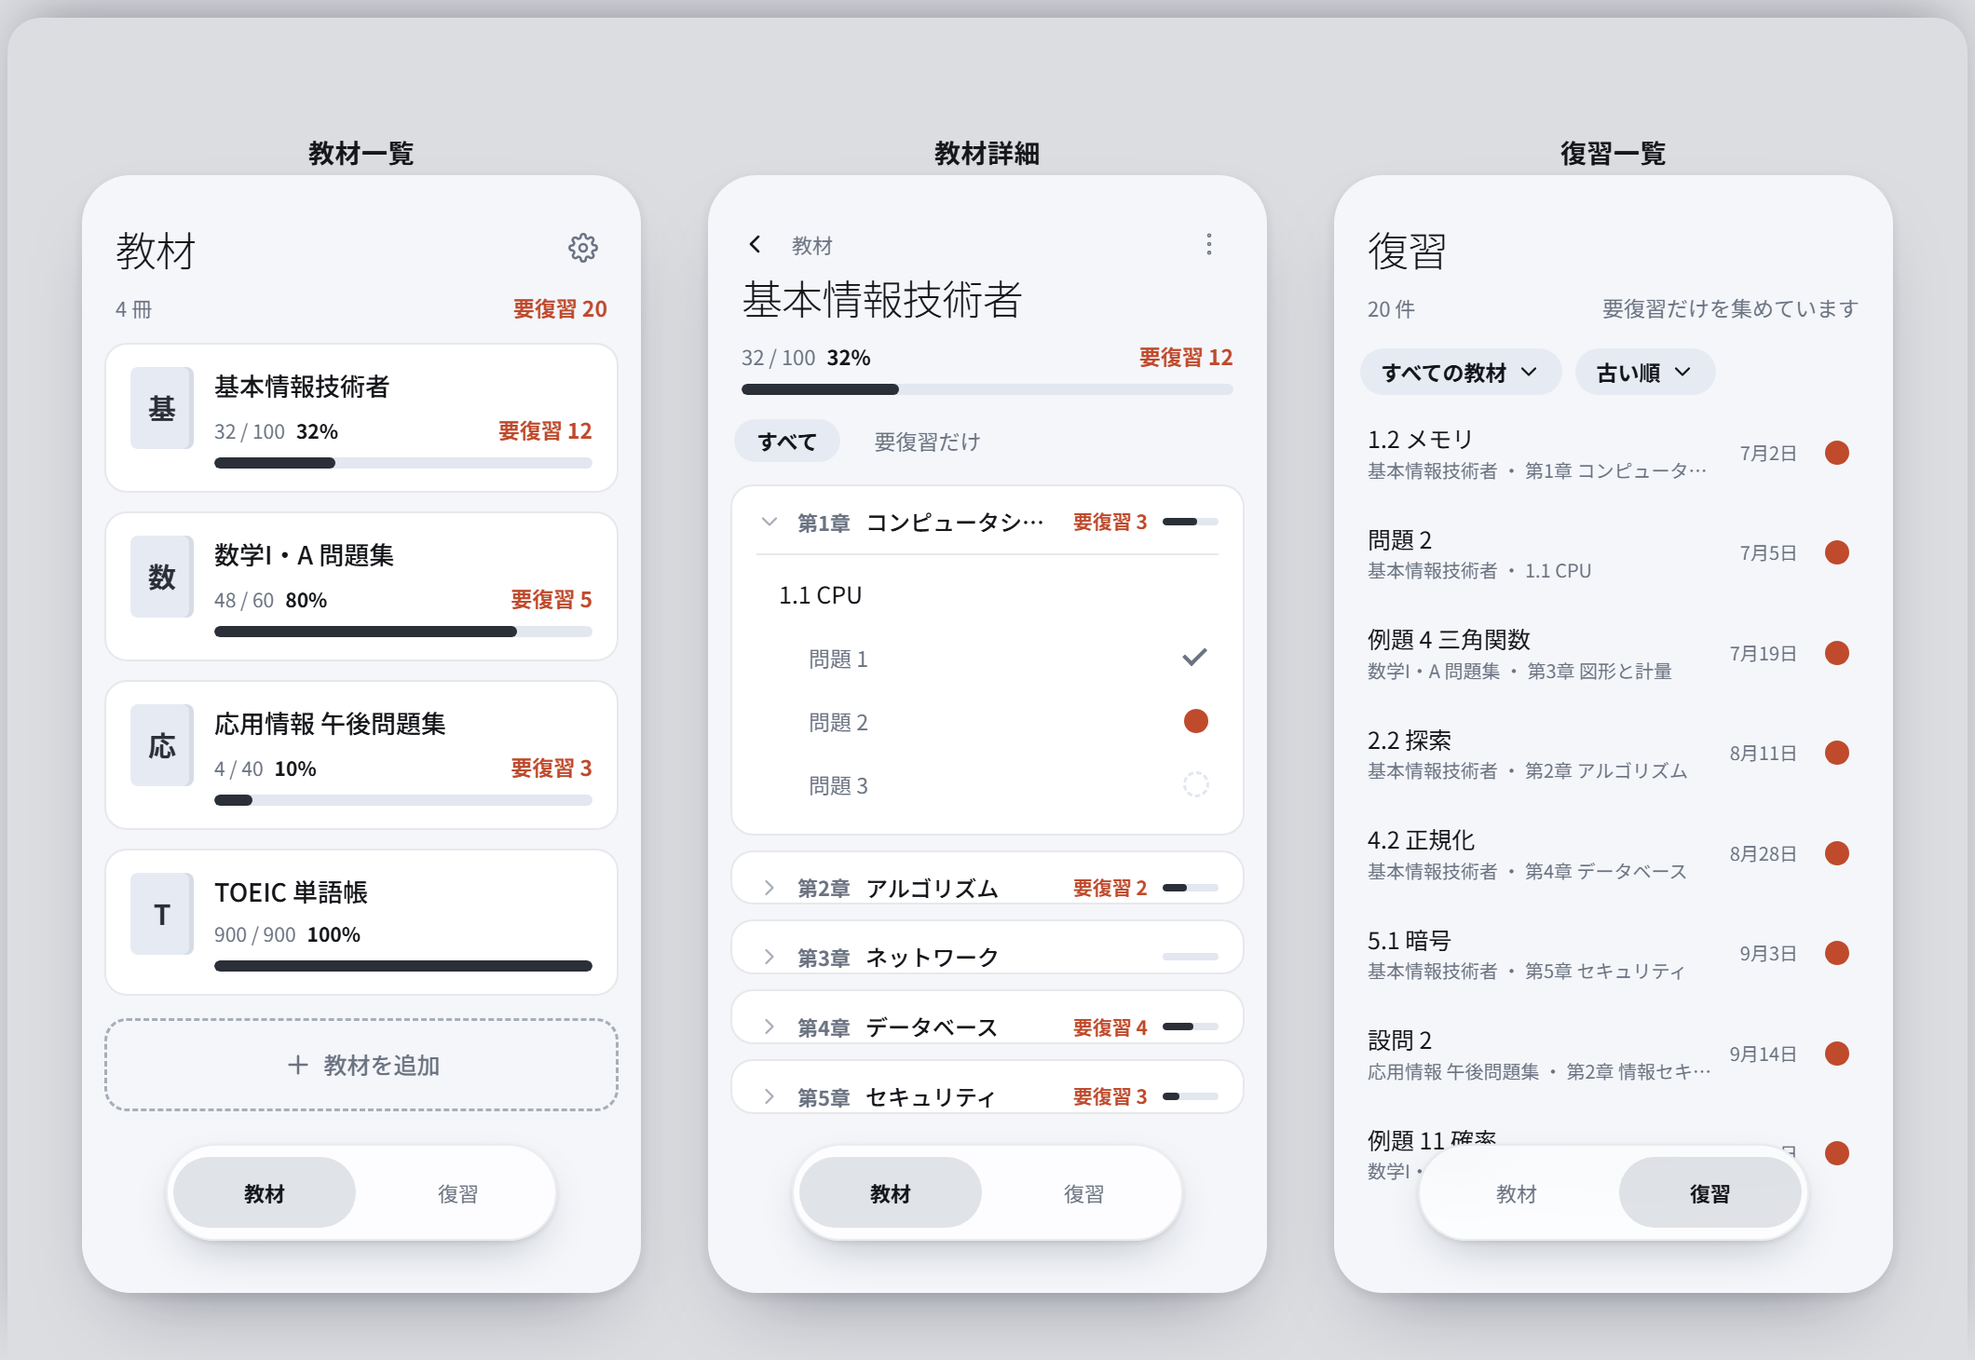
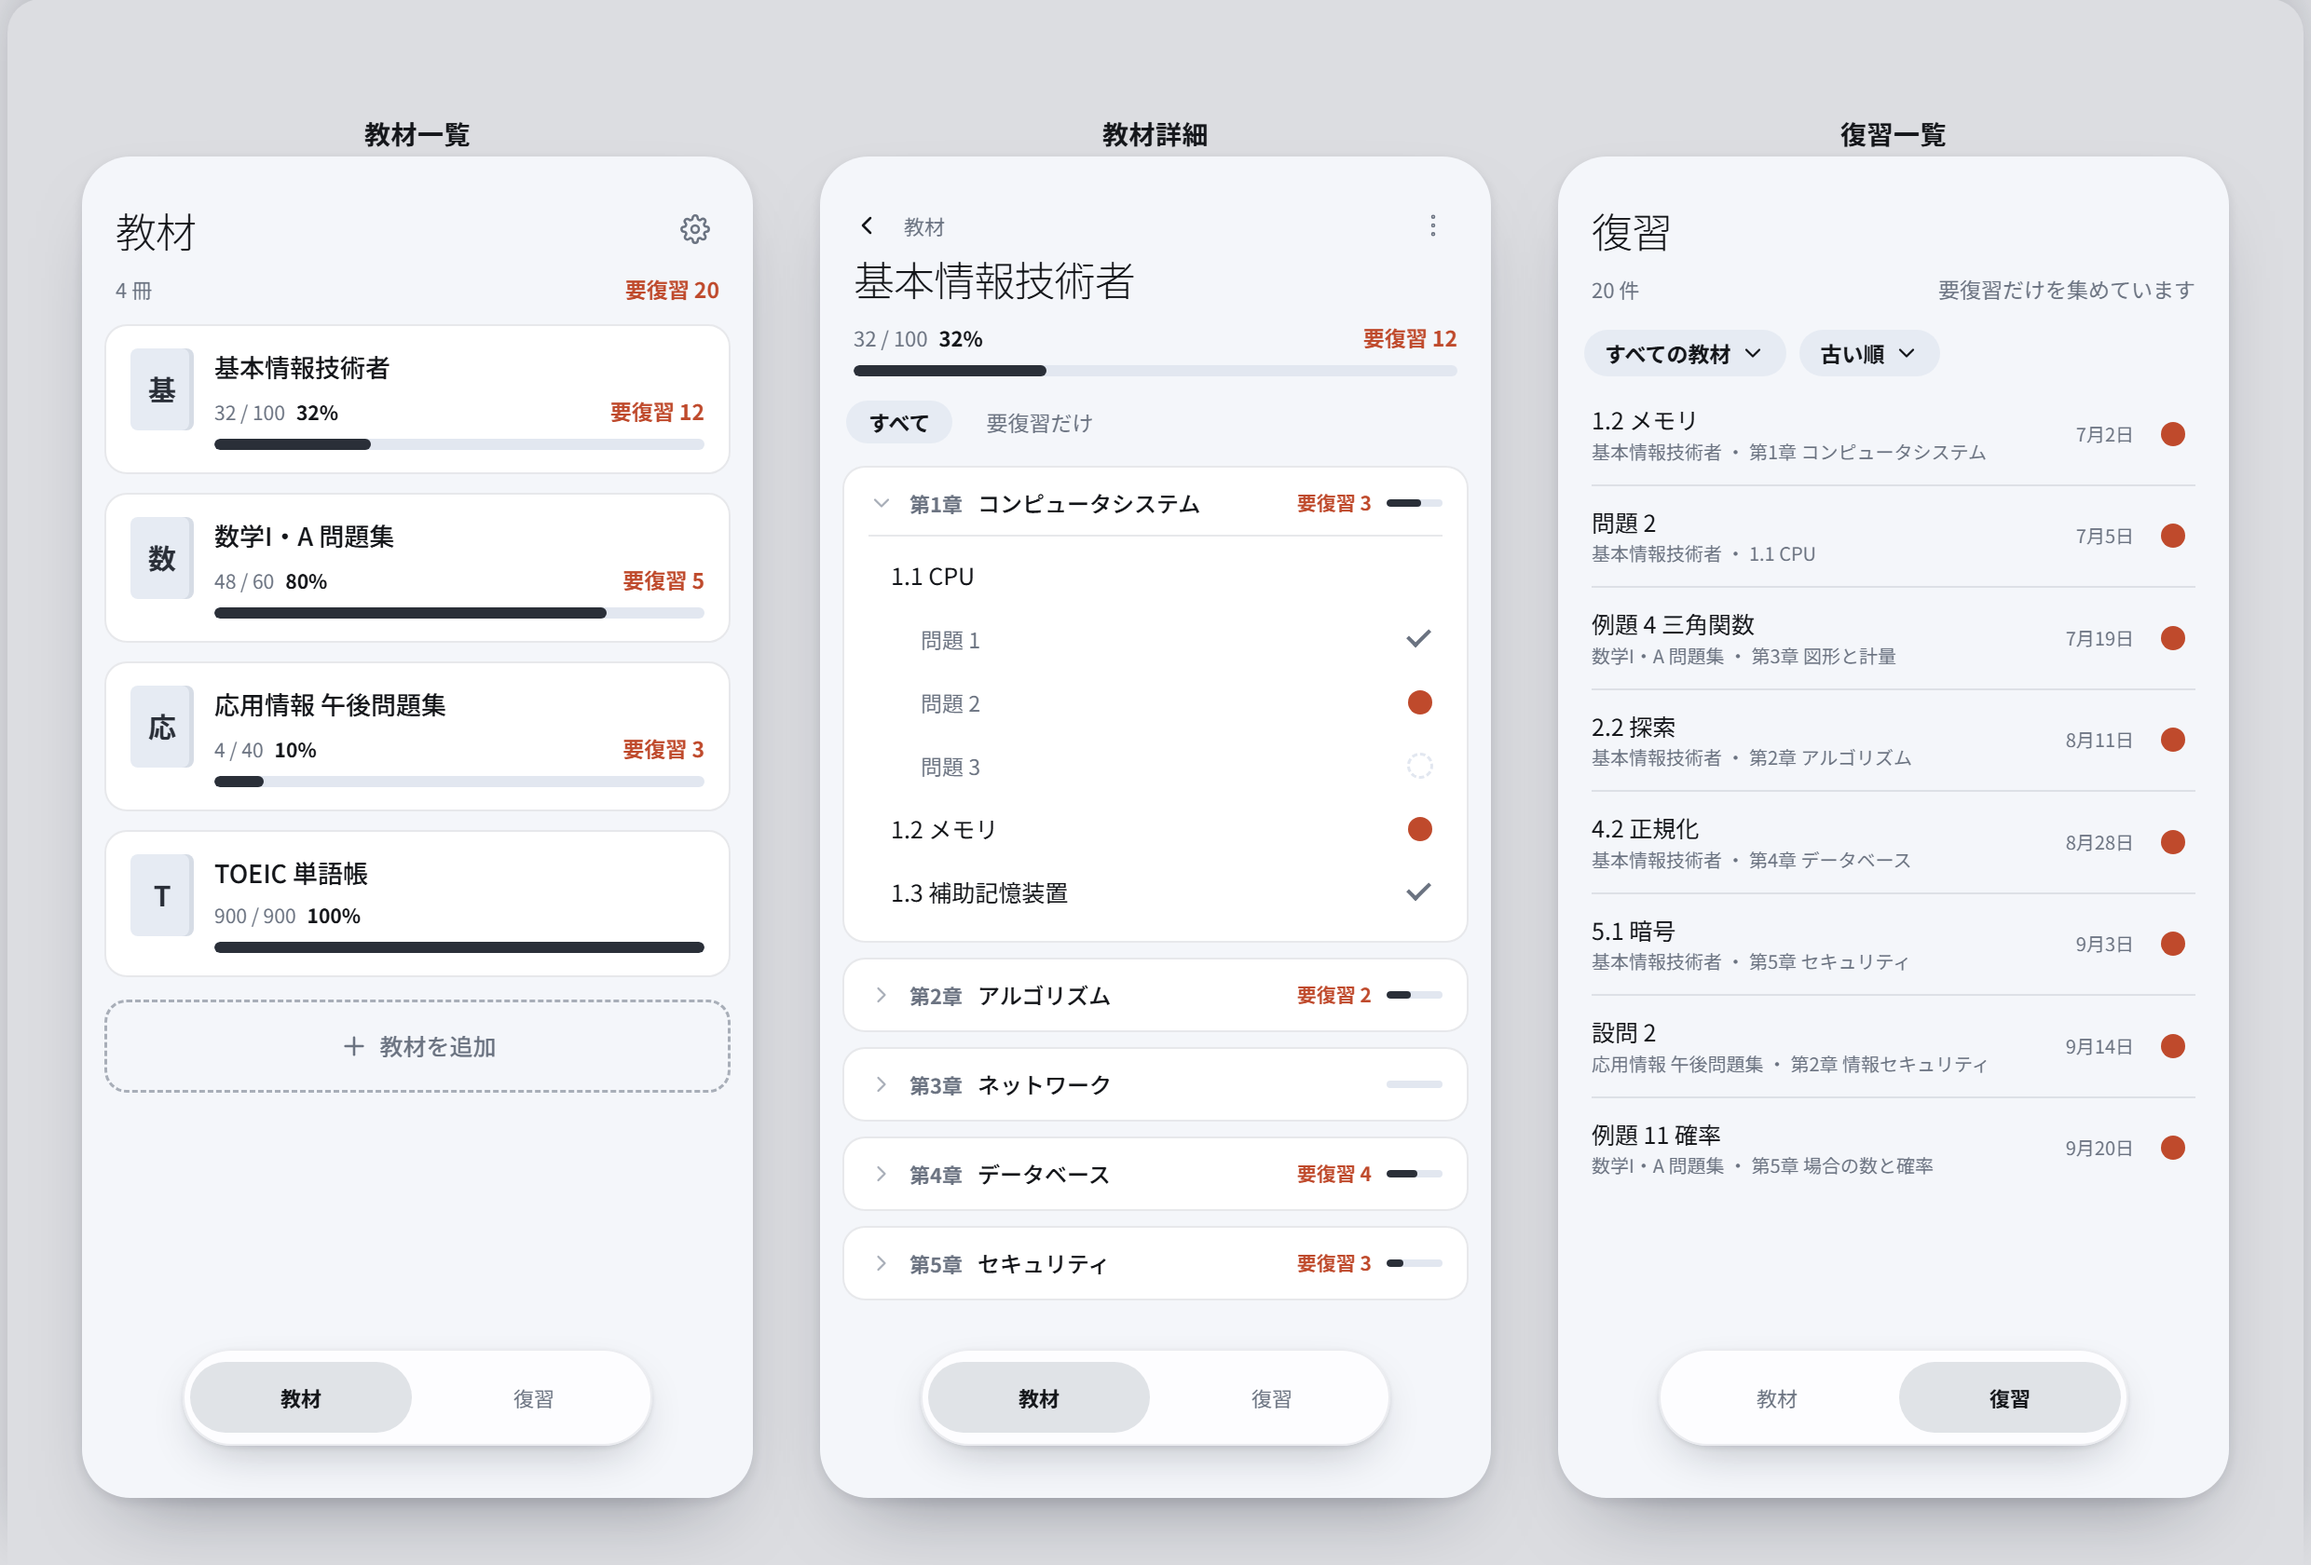
fix: モックの端末の枠を実寸にする（#30）
枠は aspect-ratio で 360 × 720dp の端末を表しているのに 300 × 600px で
描いていた。中の寸法は dp の数字をそのまま px で置いてあるので、中身だけが
1.2 倍大きく見えていた。264dp のナビが枠の 88% を占めて見えたのはこれが理由。

枠を 360 × 720px にして 1px = 1dp にし、screenshot.png を撮り直した。

diff --git a/docs/ui/index.html b/docs/ui/index.html
@@ -67,7 +67,7 @@
   .band + .sub strong { color: var(--ink); }
   section.block { margin-bottom: 56px; }
 
-  .grid { display: grid; grid-template-columns: repeat(auto-fit, minmax(300px, 1fr)); gap: 34px; align-items: start; }
+  .grid { display: grid; grid-template-columns: repeat(auto-fit, minmax(360px, 1fr)); gap: 34px; align-items: start; }
   .col > header { margin-bottom: 12px; }
   .col h4 { font-family: "Zen Kaku Gothic New", sans-serif; font-size: 17px; font-weight: 700; margin: 0 0 3px; }
   .col h4 .idx { color: var(--accent); margin-right: 5px; }
@@ -81,7 +81,8 @@
     --hair: rgba(20, 32, 60, .10); --gauge: #E2E7F0;
     --fill: #2A2F38; --acc: #BF4A2C; --chipbg: #E6EBF3;
 
-    width: 100%; max-width: 300px; aspect-ratio: 360 / 720;
+    /* 1px = 1dp。360 x 720dp の端末を実寸で描く（縮めると中身だけ大きく見える） */
+    width: 100%; max-width: 360px; aspect-ratio: 360 / 720;
     border-radius: 26px; overflow: hidden; position: relative; margin: 0 auto 14px;
     box-shadow: 0 20px 44px -24px rgba(16, 22, 38, .5), 0 2px 6px rgba(16, 22, 38, .1);
     background: var(--bg); color: var(--ink-c);

diff --git a/docs/ui/screenshot.md b/docs/ui/screenshot.md
@@ -35,10 +35,10 @@ io.open('shot.html', 'w', encoding='utf-8', newline='\n').write('''<!doctype htm
 <style>
   html,body{margin:0;background:#DCDDE1;font-family:"Noto Sans JP",sans-serif;}
   .sheet{display:flex;gap:36px;padding:44px 40px 36px;justify-content:center;align-items:flex-start;width:max-content;margin:0 auto;}
-  figure{margin:0;display:block;width:300px;flex:none;}
+  figure{margin:0;display:block;width:360px;flex:none;}
   figcaption{margin-top:16px;text-align:center;font-size:14px;font-weight:700;color:#15171B;letter-spacing:.02em;}
   /* flex の中では .phone が width:100% で潰れるので、ここで固定する */
-  .phone{width:300px !important;max-width:300px !important;height:600px !important;aspect-ratio:auto !important;margin:0 !important;flex:none !important;}
+  .phone{width:360px !important;max-width:360px !important;height:720px !important;aspect-ratio:auto !important;margin:0 !important;flex:none !important;}
 </style></head><body>
 %s
 <div class="sheet">%s</div>
@@ -60,7 +60,7 @@ ROOT=$(cygpath -m "$(pwd)")   # macOS・Linux なら ROOT=$(pwd)
 "$CHROME" \
   --headless=new --disable-gpu --hide-scrollbars \
   --force-device-scale-factor=2 \
-  --window-size=1060,730 \
+  --window-size=1240,840 \
   --virtual-time-budget=8000 \
   --screenshot="$ROOT/docs/ui/screenshot.png" \
   "file:///$ROOT/shot.html"
@@ -68,12 +68,14 @@ ROOT=$(cygpath -m "$(pwd)")   # macOS・Linux なら ROOT=$(pwd)
 
 **`--screenshot` も開く頁も絶対パスにする。** Chrome は相対パスを**自分の作業ディレクトリ**から解決するので、シェル側の位置とは合わず、`Failed to write file` で落ちる。`$(pwd)` から組み立てれば、手元のパスをこのファイルに書き残さずに済む。
 
-`--force-device-scale-factor=2` で 2120 × 1460 になる。README に載せる大きさとして十分で、300 KB 前後に収まる。
+`--force-device-scale-factor=2` で 2480 × 1680 になる。README に載せる大きさとして十分。
+
+**枠は 360 × 720px にする。** `index.html` の `.phone` と同じ寸法で、**1px = 1dp** になる。ここを縮めると中身だけが大きく見え、寸法を見て設計を決めたときにずれる。
 
 ## 3. 確かめる
 
 - **アイコンが本物の Lucide になっているか。** 歯車・`>`・`+`・縦三点が出ていれば読み込めている。のっぺりした代替が出ていたら `--virtual-time-budget` を伸ばす
-- **ナビが枠の幅の 70% か**（決定 43）。枠は 300px なので 210px になる
+- **ナビが枠の幅の 70% か**（決定 43）。枠は 360px なので 252px になる
 - **ナビの選択が半分の幅いっぱいのカプセルか**（決定 27）
 - **印が ○ ✓ ● か**、朱が「要復習」の数字と ● だけに出ているか（決定 24・25）
 - 書体が Noto Sans JP になっているか。出ていなければ Google Fonts が間に合っていない

diff --git a/docs/decisions.md b/docs/decisions.md
@@ -657,5 +657,15 @@ Compose のテーマをこう分ける。
 
 **捨てた案**: 上限を置かない案。決定が 1 行で済む。**横向きで破綻する。** 向きを固定するなら上限は要らなくなるが、向きの固定は別の判断（横向きの画面設計そのものが無い）なので、ここでは幅だけを守る。
 
+あわせて、**モックの端末の枠を実寸に直した**（`docs/ui/index.html` の `.phone`）。
+
+枠は `aspect-ratio: 360 / 720` で 360 × 720dp の端末を表しているのに、**300 × 600px で描いていた**。
+中の寸法は dp の数字をそのまま px で置いてある（ナビの高さ 52dp → 52px）ので、
+**中身だけが 1.2 倍大きく見えていた**。264dp のナビが枠の 88% を占めて見えたのはこれが理由で、
+実機では 64% だった。
+
+枠を 360 × 720px にすると **1px = 1dp** になり、モックの見た目が 360dp の端末とそのまま一致する。
+`docs/ui/screenshot.png` も撮り直した（2480 × 1680）。
+
 **捨てた案**: 下端からの距離も割合にする案。**縦の余白は指の届く範囲と関係する**ので、画面の高さに連動させると背の高い端末で遠くなる。固定値のままにした。
 
